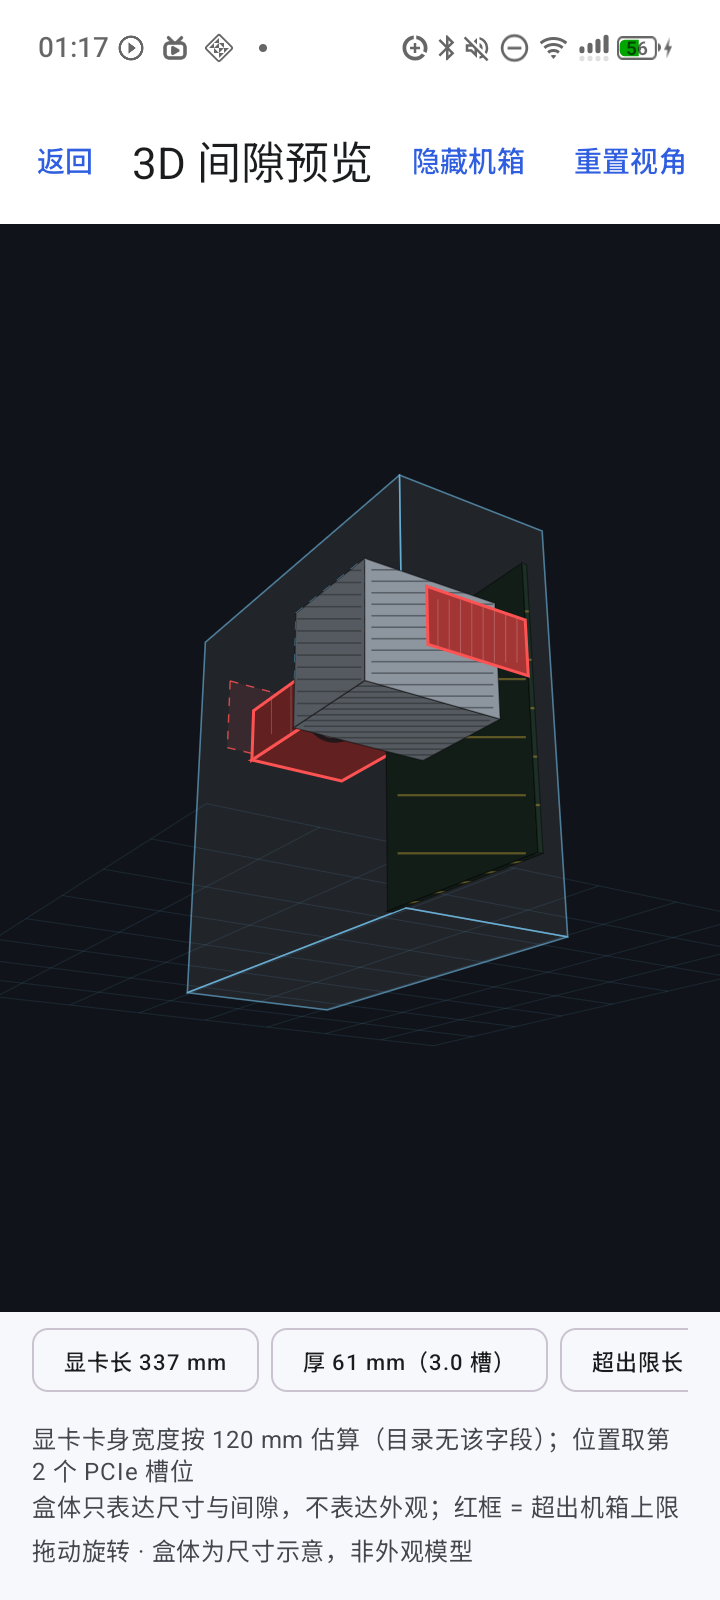
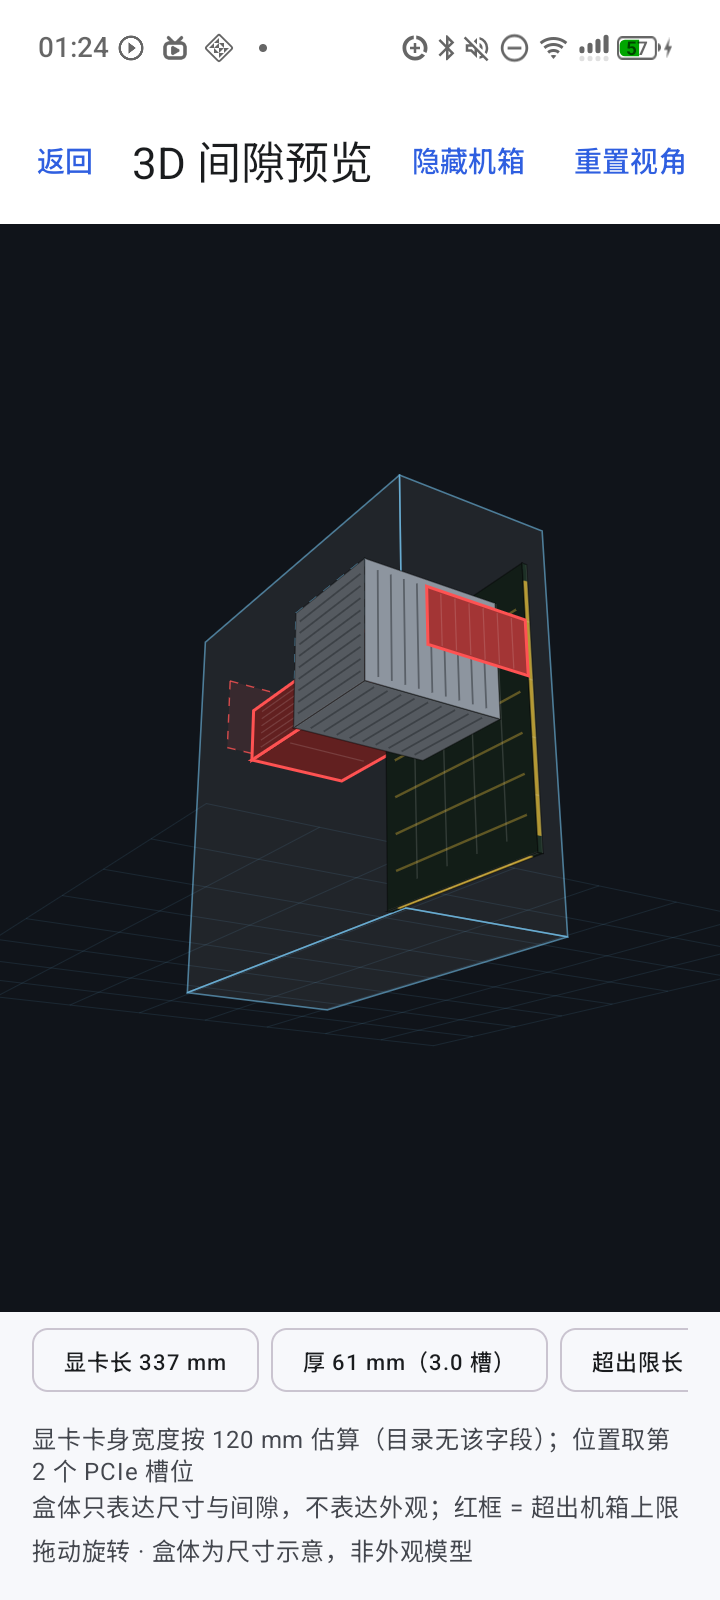
fix(viz): attach textures to face planes and drop fan decals
Textures were drawn in screen-space bounding boxes, so lines stayed axis-aligned while the face rotated. They are now mapped with bilinear (u,v) interpolation over the projected quad, so lines follow the surface and perspective. Removes the GPU fan decals, which were misleading.

Changed region(s): [[0.4278, 0.3438, 0.7639, 0.5625], [0.1222, 0.0, 0.1528, 0.0312]]

diff --git a/ui/src/main/kotlin/pcbuildmate/ui/preview/Preview3D.kt b/ui/src/main/kotlin/pcbuildmate/ui/preview/Preview3D.kt
@@ -256,75 +256,69 @@ private fun lerp(from: Color, to: Color, t: Float): Color = Color(
 )
 
 private fun DrawScope.textures(box: Box3, face: FaceCorners, pts: List<P2>) {
-    val xs = pts.map { it.x }
-    val ys = pts.map { it.y }
-    val left = xs.min()
-    val right = xs.max()
-    val top = ys.min()
-    val bottom = ys.max()
-    val w = right - left
-    val h = bottom - top
-    if (w < 6f || h < 6f) return
+    // 纹理必须贴在面所在平面上：用双线性插值把 (u,v) 映射到投影后的四边形，
+    // 这样转动时线条跟着面走，而不是固定在屏幕坐标轴方向。
+    fun p(u: Float, v: Float): Offset = bilinear(pts, u, v)
+    fun line(u0: Float, v0: Float, u1: Float, v1: Float, color: Color, width: Float) {
+        drawLine(color, p(u0, v0), p(u1, v1), strokeWidth = width)
+    }
 
-    val ink = Color(0x33FFFFFF)
-    val strong = Color(0x55FFFFFF)
+    val faint = Color(0x22FFFFFF)
+    val ink = Color(0x3AFFFFFF)
     when (box.style) {
         BoxStyle.CASE -> Unit // ghost 单独绘制
 
         BoxStyle.BOARD -> {
-            repeat(5) { i ->
-                val y = top + h * (i + 1) / 6f
-                drawLine(Color(0x66D4AF37), Offset(left + w * 0.08f, y), Offset(right - w * 0.08f, y), strokeWidth = 2.2f)
+            // 横向：PCIe/内存槽示意；纵向：板面走线
+            repeat(6) { i ->
+                val v = (i + 1) / 7f
+                line(0.06f, v, 0.94f, v, Color(0x66D4AF37), 2.4f)
+            }
+            repeat(4) { i ->
+                val u = (i + 1) / 5f
+                line(u, 0.08f, u, 0.92f, faint, 1.4f)
             }
         }
 
         BoxStyle.GPU -> when (face.face) {
-            Face.TOP -> {
-                repeat(7) { i ->
-                    val x = left + w * (i + 1) / 8f
-                    drawLine(strong, Offset(x, top + h * 0.12f), Offset(x, bottom - h * 0.12f), strokeWidth = 2f)
-                }
+            // 背板：纵向鳍片（沿长度方向）
+            Face.TOP -> repeat(7) { i ->
+                val v = (i + 1) / 8f
+                line(0.08f, v, 0.92f, v, Color(0x55FFFFFF), 2f)
             }
-
-            Face.BOTTOM -> {
-                val r = min(w, h) * 0.22f
-                val cy = top + h * 0.5f
-                listOf(0.3f, 0.7f).forEach { fx ->
-                    val cx = left + w * fx
-                    drawCircle(Color(0xCC131518), radius = r, center = Offset(cx, cy))
-                    drawCircle(Color(0x55FFFFFF), radius = r * 0.82f, center = Offset(cx, cy), style = Stroke(1.6f))
-                    repeat(7) { blade ->
-                        val a = blade * (6.2832f / 7f)
-                        drawLine(
-                            Color(0x66FFFFFF),
-                            Offset(cx, cy),
-                            Offset(cx + r * 0.78f * cos(a), cy + r * 0.78f * sin(a)),
-                            strokeWidth = 1.4f,
-                        )
-                    }
-                }
+            // 底面朝下，只留淡淡的走线，不做风扇贴图
+            Face.BOTTOM -> repeat(5) { i ->
+                val u = (i + 1) / 6f
+                line(u, 0.1f, u, 0.9f, faint, 1.2f)
             }
-
-            else -> {
-                val step = w / 9f
-                var x = left
-                while (x < right) {
-                    drawLine(ink, Offset(x, top + h * 0.15f), Offset(x, bottom - h * 0.15f), strokeWidth = 1f)
-                    x += step
-                }
+            // 侧面：PCB 走线
+            else -> repeat(6) { i ->
+                val v = (i + 1) / 7f
+                line(0.05f, v, 0.95f, v, faint, 1.2f)
             }
         }
 
         BoxStyle.COOLER -> {
-            val step = h / 14f
-            var y = top
-            while (y < bottom) {
-                drawLine(Color(0x77202428), Offset(left + w * 0.05f, y), Offset(right - w * 0.05f, y), strokeWidth = 1.6f)
-                y += step
+            // 鳍片：沿面内一个方向等距
+            repeat(9) { i ->
+                val v = (i + 1) / 10f
+                line(0.06f, v, 0.94f, v, Color(0x77202428), 1.8f)
             }
         }
     }
-    drawLine(Color(0x22FFFFFF), Offset(left, top), Offset(right, top), strokeWidth = 2f)
+    // 面边缘高光，帮助辨认轮廓
+    drawLine(Color(0x22FFFFFF), p(0f, 0f), p(1f, 0f), strokeWidth = 2f)
+}
+
+/** 四边形 (p0,p1,p2,p3) 的双线性插值；用于把纹理钉在面所在平面上。 */
+internal fun bilinear(pts: List<P2>, u: Float, v: Float): Offset {
+    val p0 = pts[0]
+    val p1 = pts[1]
+    val p2 = pts[2]
+    val p3 = pts[3]
+    val x = (1 - u) * (1 - v) * p0.x + u * (1 - v) * p1.x + u * v * p2.x + (1 - u) * v * p3.x
+    val y = (1 - u) * (1 - v) * p0.y + u * (1 - v) * p1.y + u * v * p2.y + (1 - u) * v * p3.y
+    return Offset(x, y)
 }
 
 private fun DrawScope.drawGroundGrid(scene: Scene3d, pose: ViewPose) {

diff --git a/ui/src/test/kotlin/pcbuildmate/ui/preview/Scene3dTest.kt b/ui/src/test/kotlin/pcbuildmate/ui/preview/Scene3dTest.kt
@@ -122,6 +122,23 @@ class Scene3dTest {
         assertTrue(visible in 1..3, "实际 $visible")
     }
 
+    @Test
+    fun `surface texture coordinates are bilinear in the face plane`() {
+        val quad = listOf(
+            P2(0f, 0f, 1f),
+            P2(100f, 20f, 1f),
+            P2(90f, 80f, 1f),
+            P2(10f, 60f, 1f),
+        )
+
+        assertEquals(0f, bilinear(quad, 0f, 0f).x, 0.01f)
+        assertEquals(0f, bilinear(quad, 0f, 0f).y, 0.01f)
+        assertEquals(100f, bilinear(quad, 1f, 0f).x, 0.01f)
+        assertEquals(20f, bilinear(quad, 1f, 0f).y, 0.01f)
+        assertEquals(50f, bilinear(quad, 0.5f, 0.5f).x, 0.01f)
+        assertEquals(40f, bilinear(quad, 0.5f, 0.5f).y, 0.01f)
+    }
+
     // ---------------------------------------------------------------- fixture
 
     private fun revisionWith(gpu: String?, case: String, cooler: String? = null): BuildRevision {

diff --git a/docs/17-3d-preview.md b/docs/17-3d-preview.md
@@ -25,7 +25,7 @@
 |---|---|
 | 尺寸来源 | 只画目录字段；缺失字段用规范常量并在 notes 明说（卡身宽度 120mm、主板下沿 80mm） |
 | 坐标 | **先列起止坐标再画**，见 [docs/18](18-3d-coordinates.md)；轴定义错了会整张图错 |
-| 外观 | 程序化纹理（PCB 绿、背板、风扇圈、散热鳍片），**不冒充**真实产品渲染 |
+| 外观 | 程序化纹理（PCB 走线、背板鳍片、散热鳍片）；纹理用双线性映射钉在面所在平面，随视角透视变化；**不画风扇贴图**（角度难还原，容易画错） |
 | 机箱 | 只有"允许空间"半透明容器，不是机箱外壳；没有机箱条目时只显示比例并标注 |
 | 冲突 | 红框 = 超出目录上限；没有上限数据时**不标红**，避免假结论 |
 | 性能 | 纯 Compose Canvas 软件投影，无 GL/SceneView 依赖，离线可跑 |
@@ -36,7 +36,7 @@
 |---|---|
 | `ui/.../preview/Scene3d.kt` | `Vec3` / `Box3` / `Scene3d`；`SceneBuilder.build(revision, catalogue)` |
 | `ui/.../preview/Projection3d.kt` | 旋转、透视投影、面法线、背面剔除 |
-| `ui/.../preview/Preview3D.kt` | Compose Canvas：地面网格、限制面、面排序、明暗、程序化纹理、拖动旋转、重置视角 |
+| `ui/.../preview/Preview3D.kt` | Compose Canvas：地面网格、限制面、面排序、明暗、面内双线性纹理、拖动旋转、重置视角 |
 | `ui/src/test/.../Scene3dTest.kt` | 轴方向（X/Y/Z）、337/320 标红、300 不标红、无 GPU、散热超高、投影/旋转/可见面 |
 
 入口：Workspace →「3D 间隙预览」（任意配置可用）。

diff --git a/docs/18-3d-coordinates.md b/docs/18-3d-coordinates.md
@@ -72,6 +72,7 @@ UI 里明确写"允许空间"，不写"机箱外形"。
 - 限长/限高用半透明平面 + 虚线边表达，不让机箱实心盒遮住零件
 - 机箱默认半透明、可隐藏
 - 相机：默认从"前-左-上"看，拖动旋转
+- 纹理：用面四边形的双线性插值 (u,v) 贴到 3D 面内，线条随面透视变化，不固定屏幕角度
 
 ## 18.9 依据
 
